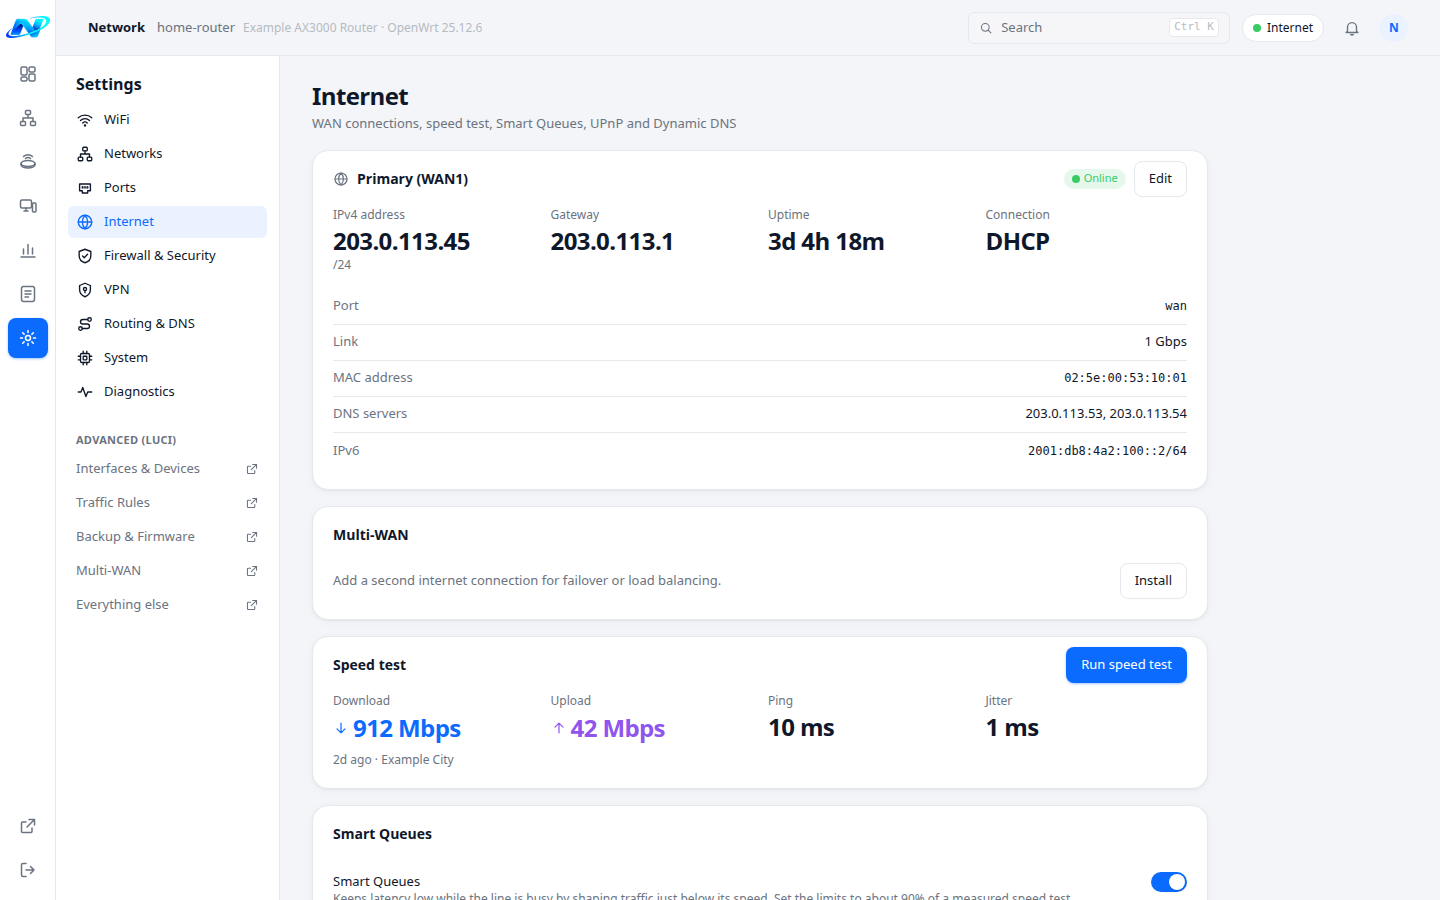
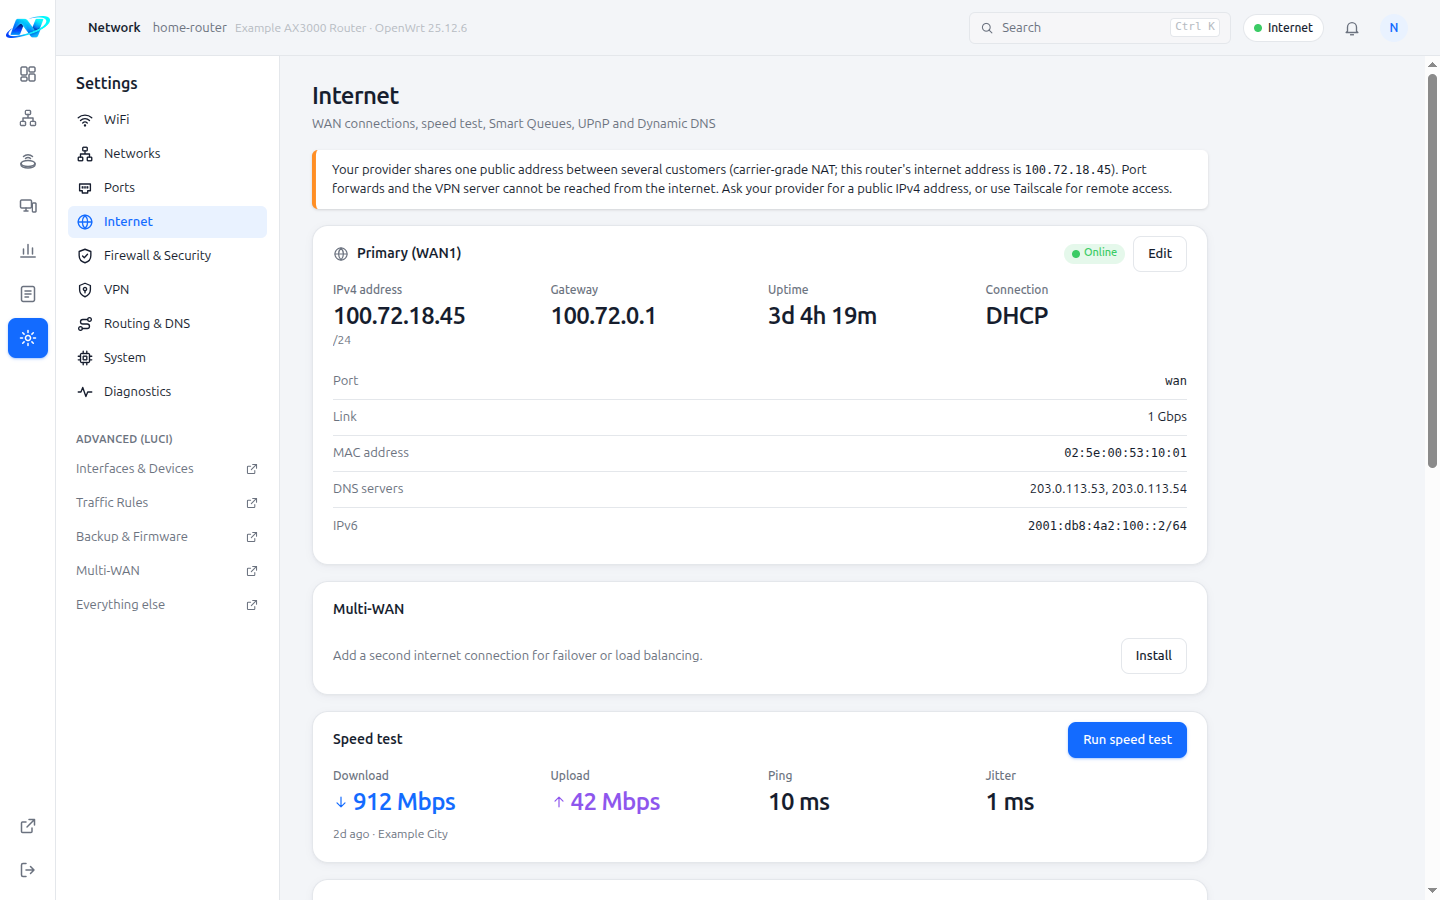
Docs: what makes netui different, and screenshots of the newer features
README: a list of what sets netui apart (safety timer, one-click access
points and mesh, add-ons from the browser, first-run setup, the connection
check and carrier-grade NAT warning, VPN both ways, firmware updates for
every device, read-only users, nothing running on the router).

New screenshots from the demo build: first-run setup on a phone (the WiFi
step and the QR code at the end), an access point's panel, the VPN page
with a connected VPN service, Diagnostics, and installing an add-on.
Internet now shows the carrier-grade NAT warning and System a firmware
build in progress. The README table, the user guide and the project page
use them; the guide gains a paragraph on the access point panel.

Project page: three more reasons (setup, plain answers, VPN both ways),
add-ons described as installed from netui, and the full list of optional
extras. The screenshot credit now says they come from the live demo, which
they do.

diff --git a/docs/index.html b/docs/index.html
@@ -169,7 +169,22 @@
       <div class="card">
         <div class="ic"><svg viewBox="0 0 24 24"><path d="M5 12.5a10 10 0 0114 0M8 15.5a5.5 5.5 0 018 0"/><circle cx="12" cy="19" r="1"/><path d="M2 9.5a14.5 14.5 0 0120 0"/></svg></div>
         <h3>Access points and mesh, made easy</h3>
-        <p>Turn any other OpenWrt router into an access point with one click. Connect it by cable or by wireless mesh, with automatic failover between the two. WiFi settings are copied to every access point.</p>
+        <p>Turn any other OpenWrt router into an access point with one click. Connect it by cable or by wireless mesh, with automatic failover between the two. WiFi settings are copied to every access point, and each one updates its firmware from netui.</p>
+      </div>
+      <div class="card">
+        <div class="ic"><svg viewBox="0 0 24 24"><path d="M10 6h10M10 12h10M10 18h10"/><path d="M3.5 6l1.5 1.5L7.5 5M3.5 12l1.5 1.5 2.5-2.5M3.5 18l1.5 1.5 2.5-2.5"/></svg></div>
+        <h3>A new router, set up in one go</h3>
+        <p>On a fresh OpenWrt, Set Up turns the WiFi on, checks the internet connection, sets the time zone and a router password, and ends with a QR code that phones scan to join.</p>
+      </div>
+      <div class="card">
+        <div class="ic"><svg viewBox="0 0 24 24"><path d="M3 12h4l2.5-6 5 12 2.5-6H21"/></svg></div>
+        <h3>Plain answers when something is wrong</h3>
+        <p>A one-click check tests the cable, the provider, the internet and name lookup, and says what to do about the first that fails. netui also warns when your provider shares one address between customers, which breaks port forwards.</p>
+      </div>
+      <div class="card">
+        <div class="ic"><svg viewBox="0 0 24 24"><path d="M5 8h14l-3.5-3.5M19 16H5l3.5 3.5"/></svg></div>
+        <h3>VPN both ways</h3>
+        <p>Reach home with a WireGuard server and a QR code per phone, or with Tailscale when there is no public address. Or send chosen devices through a VPN provider, blocked if the tunnel drops.</p>
       </div>
       <div class="card">
         <div class="ic"><svg viewBox="0 0 24 24"><rect x="3" y="4" width="18" height="13" rx="2"/><path d="M7 13l3-3 3 2 4-4M8 21h8M12 17v4"/></svg></div>
@@ -189,7 +204,7 @@
       <div class="card">
         <div class="ic"><svg viewBox="0 0 24 24"><rect x="3" y="3" width="7.5" height="7.5" rx="1.5"/><rect x="13.5" y="3" width="7.5" height="7.5" rx="1.5"/><rect x="3" y="13.5" width="7.5" height="7.5" rx="1.5"/><path d="M17.25 14v6.5M14 17.25h6.5"/></svg></div>
         <h3>Grows with you</h3>
-        <p>Ad blocking, a guest sign-in page, a VPN server, a second internet line for failover, smart queues, speed tests and firmware updates appear as soon as their package is installed.</p>
+        <p>Ad blocking, a guest sign-in page, VPN, a second internet line for failover, smart queues and more install from netui itself, after a check that there is room. Installing never switches anything on.</p>
       </div>
     </div>
   </div>
@@ -233,18 +248,23 @@
 <section id="tour">
   <div class="wrap">
     <h2>Take the tour</h2>
-    <p class="sub">Real screenshots from a gateway and an adopted access point running OpenWrt 25.12. Click any picture to enlarge it.</p>
+    <p class="sub">Screenshots from the <a href="demo/">live demo</a>, which simulates a gateway and an adopted access point running OpenWrt 25.12. Click any picture to enlarge it.</p>
     <div class="gal">
       <figure><img src="screenshots/topology.png" width="1440" height="900" loading="lazy" alt="Topology view"><figcaption><b>Topology.</b> The internet, the gateway, its ports and radios, the access points and the devices on each.</figcaption></figure>
-      <figure><img src="screenshots/devices.png" width="1440" height="900" loading="lazy" alt="Devices page"><figcaption><b>Devices.</b> The gateway and adopted access points, with how each one is connected: cable or mesh.</figcaption></figure>
+      <figure><img src="screenshots/devices.png" width="1440" height="900" loading="lazy" alt="Devices page"><figcaption><b>Devices.</b> The gateway and adopted access points, with how each one is connected (cable or mesh), and routers ready to adopt.</figcaption></figure>
+      <figure><img src="screenshots/access-point.png" width="1440" height="900" loading="lazy" alt="An access point's panel"><figcaption><b>An access point's panel.</b> Its firmware, add-ons, radios (channel and power per access point) and the devices on its WiFi.</figcaption></figure>
       <figure><img src="screenshots/wifi.png" width="1440" height="900" loading="lazy" alt="WiFi settings"><figcaption><b>WiFi.</b> Networks, radios with live utilisation and noise, wireless mesh and client steering.</figcaption></figure>
       <figure><img src="screenshots/client-connections.png" width="1440" height="900" loading="lazy" alt="Client details"><figcaption><b>Client devices.</b> Live activity, usage and open connections for every device.</figcaption></figure>
       <figure><img src="screenshots/insights.png" width="1440" height="620" loading="lazy" alt="Insights"><figcaption><b>Insights.</b> Channel utilisation, nearby networks per channel and a channel suggestion.</figcaption></figure>
       <figure><img src="screenshots/usage.png" width="1440" height="900" loading="lazy" alt="Usage history"><figcaption><b>Usage history.</b> Download and upload per device and per application, month by month.</figcaption></figure>
-      <figure><img src="screenshots/internet.png" width="1440" height="900" loading="lazy" alt="Internet settings"><figcaption><b>Internet.</b> Your connection, a second line for failover, and speed tests.</figcaption></figure>
+      <figure><img src="screenshots/internet.png" width="1440" height="900" loading="lazy" alt="Internet settings, warning about carrier-grade NAT"><figcaption><b>Internet.</b> Your connection, with a warning when the provider shares its address (carrier-grade NAT), a second line for failover, and speed tests.</figcaption></figure>
+      <figure><img src="screenshots/vpn.png" width="1440" height="900" loading="lazy" alt="VPN settings"><figcaption><b>VPN.</b> A WireGuard server and its clients, Tailscale, and a VPN service for chosen devices that blocks their internet if the tunnel drops.</figcaption></figure>
       <figure><img src="screenshots/ad-blocking.png" width="1440" height="900" loading="lazy" alt="Ad blocking"><figcaption><b>Ad blocking and content filtering</b> for every device on the network.</figcaption></figure>
-      <figure><img src="screenshots/system.png" width="1440" height="900" loading="lazy" alt="System settings"><figcaption><b>System.</b> Firmware updates, backup and restore, admins and read-only users.</figcaption></figure>
+      <figure><img src="screenshots/diagnostics.png" width="1440" height="900" loading="lazy" alt="Diagnostics"><figcaption><b>Diagnostics.</b> A one-click connection check that says what to fix, plus ping, traceroute and DNS lookup from the router.</figcaption></figure>
+      <figure><img src="screenshots/system.png" width="1440" height="900" loading="lazy" alt="System settings"><figcaption><b>System.</b> Firmware updates built with your add-ons, and backup and restore.</figcaption></figure>
+      <figure><img src="screenshots/addons.png" width="1440" height="900" loading="lazy" alt="Installing an add-on"><figcaption><b>Add-ons.</b> Optional features install from netui after a check that there is room. Admins and read-only users.</figcaption></figure>
       <figure><img src="screenshots/apply-review.png" width="1440" height="900" loading="lazy" alt="Review changes dialog"><figcaption><b>Every change is reviewed</b> and applied with a safety timer. If it cuts you off, the router undoes it.</figcaption></figure>
+      <figure><img src="screenshots/setup.png" width="1608" height="1688" loading="lazy" alt="First-run setup on a phone"><figcaption><b>First-run setup.</b> WiFi name and password, the internet, time zone and a router password, ending with a QR code to join.</figcaption></figure>
       <figure class="phone"><img src="screenshots/mobile.png" width="780" height="1688" loading="lazy" alt="netui on a phone"><figcaption><b>On a phone.</b> The same interface with a bottom tab bar, for a quick look from the sofa.</figcaption></figure>
     </div>
   </div>
@@ -254,17 +274,24 @@
   <div class="wrap two">
     <div>
       <h2>Optional extras</h2>
-      <p class="sub">netui shows these pages as soon as the matching OpenWrt package is installed. Without them, it stays out of the way.</p>
+      <p class="sub">Each one installs from netui: its card has an Install button, and System → Add-ons lists them all. Installing never switches anything on. Without them, netui stays out of the way.</p>
       <table>
         <tr><th>Feature</th><th>Package</th></tr>
         <tr><td>Ad blocking</td><td><code>adblock-fast</code></td></tr>
         <tr><td>Guest sign-in page</td><td><code>opennds</code></td></tr>
-        <tr><td>VPN server</td><td><code>luci-proto-wireguard</code></td></tr>
+        <tr><td>VPN server, VPN service</td><td><code>luci-proto-wireguard</code></td></tr>
+        <tr><td>Tailscale</td><td><code>tailscale</code></td></tr>
+        <tr><td>DNS over HTTPS</td><td><code>https-dns-proxy</code></td></tr>
         <tr><td>Second internet line</td><td><code>mwan3</code></td></tr>
         <tr><td>Smart queues</td><td><code>sqm-scripts</code></td></tr>
+        <tr><td>UPnP</td><td><code>luci-app-upnp</code></td></tr>
+        <tr><td>Dynamic DNS</td><td><code>luci-app-ddns</code></td></tr>
         <tr><td>Speed test</td><td><code>speedtestcpp</code> or <code>librespeed-cli</code></td></tr>
         <tr><td>Usage history</td><td><code>nlbwmon</code></td></tr>
+        <tr><td>Wake-on-LAN</td><td><code>etherwake</code></td></tr>
+        <tr><td>WiFi schedules</td><td><code>wifischedule</code></td></tr>
         <tr><td>Client steering</td><td><code>usteer</code></td></tr>
+        <tr><td>Wireless mesh</td><td><code>wpad-mbedtls</code> (the full WiFi package)</td></tr>
         <tr><td>Firmware updates</td><td><code>owut</code> (standard on 25.x)</td></tr>
       </table>
     </div>

diff --git a/README.md b/README.md
@@ -17,18 +17,62 @@ New to this? The **[user guide](docs/user-guide.md)** walks through
 installing netui and setting up WiFi, a guest network, ad blocking, extra
 access points and more, step by step.
 
+## What makes netui different
+
+- **You cannot lock yourself out.** Every change is shown for review, then
+  applied with a 30-second safety timer: if it cuts netui off from the
+  router, the router undoes it by itself. A change that moves the router to
+  a new address is followed there.
+- **Access points in one click.** Install a small agent on any other OpenWrt
+  router and click **Adopt**: it becomes an access point with your WiFi
+  networks, and every later WiFi change is copied to it. Each access point
+  has its own panel with its uplink, clients, radios, firmware and add-ons.
+- **Wireless mesh with failover.** One switch gives every access point an
+  encrypted mesh link to the gateway. With a cable it uses the cable and keeps
+  the mesh as a backup; unplug it and it moves to the mesh within about 20
+  seconds.
+- **Add-ons from the browser.** Optional features (ad blocking, a guest
+  sign-in page, VPN, Tailscale, usage history and more) install from their own
+  card. netui checks there is room first, and installing never switches
+  anything on.
+- **A new router set up in one go.** On a fresh OpenWrt, **Set Up** turns the
+  WiFi on, checks the internet connection, sets the time zone and a password
+  for the router, and ends with a QR code that phones scan to join.
+- **Plain answers when something is wrong.** A one-click connection check
+  tests the cable, the provider's address, the internet and name lookup in
+  turn, and says what to do about the first that fails. netui also warns when
+  the provider shares one public address between customers (carrier-grade
+  NAT) or another router sits in front, where port forwards and the VPN
+  server cannot work.
+- **VPN both ways.** A WireGuard server with a QR code for each phone; the
+  router as the client of a VPN provider, for all devices or chosen ones,
+  with a switch that blocks their internet if the tunnel drops; or Tailscale
+  for remote access without a public address.
+- **Firmware updates for the whole network.** The router and every access
+  point update from netui, with an image built with the add-ons they have
+  installed, keeping their settings.
+- **Its own limited login.** netui never signs in as root. Add other admins,
+  or read-only users who can see everything and change nothing.
+- **Light on the router.** Plain web files: no service running in the
+  background, no cloud account, under 190 KB to load. Settings are read fresh
+  from the router every time, so changes made in LuCI or over ssh show up, and
+  LuCI stays available for everything netui does not cover.
+
 ## Screenshots
 
 | | |
 |---|---|
-| ![Dashboard](docs/screenshots/dashboard.png) **Dashboard**: gateway health, internet throughput, the last speed test, ports, WiFi, top clients and recent events | ![Topology](docs/screenshots/topology.png) **Topology**: internet, gateway, ports, radios, access points and the clients on each |
-| ![Devices](docs/screenshots/devices.png) **Devices**: the gateway and adopted access points with their uplink (cable or mesh) | ![WiFi settings](docs/screenshots/wifi.png) **WiFi**: SSIDs, radios with live utilisation and noise, wireless mesh, client steering |
+| ![Dashboard](docs/screenshots/dashboard.png) **Dashboard**: gateway health, internet throughput, the last speed test, ports, WiFi, top clients and recent events | ![Review changes](docs/screenshots/apply-review.png) **Every change is reviewed** and applied with a safety timer: if it cuts netui off, the router undoes it |
+| ![Topology](docs/screenshots/topology.png) **Topology**: internet, gateway, ports, radios, access points and the clients on each | ![Devices](docs/screenshots/devices.png) **Devices**: the gateway and adopted access points with their uplink (cable or mesh), and routers ready to adopt |
+| ![An access point's panel](docs/screenshots/access-point.png) **An access point's panel**: its firmware, add-ons, radios (channel and power per access point) and WiFi clients | ![WiFi settings](docs/screenshots/wifi.png) **WiFi**: SSIDs, radios with live utilisation and noise, wireless mesh, client steering |
 | ![Client details](docs/screenshots/client-connections.png) **Client devices**: live activity, usage and open connections per client | ![Insights](docs/screenshots/insights.png) **Insights**: channel utilisation, nearby networks per channel and a channel suggestion |
-| ![Usage history](docs/screenshots/usage.png) **Usage history**: download and upload per device and per application, by month | ![Internet](docs/screenshots/internet.png) **Internet**: the WAN, a second connection for failover, speed tests |
-| ![Ad blocking](docs/screenshots/ad-blocking.png) **Ad blocking and content filtering** for every device on the network | ![System](docs/screenshots/system.png) **System**: firmware updates, backup and restore, admins and read-only users |
-| ![Review changes](docs/screenshots/apply-review.png) **Every change is reviewed** and applied with a safety timer: if it cuts netui off, the router undoes it | <img src="docs/screenshots/mobile.png" alt="On a phone" width="240"> **On a phone**: the same UI with a bottom tab bar |
+| ![Usage history](docs/screenshots/usage.png) **Usage history**: download and upload per device and per application, by month | ![Internet](docs/screenshots/internet.png) **Internet**: the WAN with a warning when the provider shares its address (carrier-grade NAT), a second connection for failover, speed tests |
+| ![VPN](docs/screenshots/vpn.png) **VPN**: a WireGuard server and its clients, Tailscale, and a VPN service for chosen devices that blocks their internet if the tunnel drops | ![Ad blocking](docs/screenshots/ad-blocking.png) **Ad blocking and content filtering** for every device on the network |
+| ![Diagnostics](docs/screenshots/diagnostics.png) **Diagnostics**: a one-click connection check that says what to fix, plus ping, traceroute and DNS lookup from the router | ![System](docs/screenshots/system.png) **System**: firmware updates built with your add-ons, backup and restore |
+| ![Add-ons](docs/screenshots/addons.png) **Add-ons**: optional features installed from netui after a check that there is room; admins and read-only users | <img src="docs/screenshots/mobile.png" alt="On a phone" height="300"> <img src="docs/screenshots/setup.png" alt="First-run setup on a phone" height="300"> **On a phone**: the same UI with a bottom tab bar. On a new router, **Set Up** turns the WiFi on and ends with a QR code to join it |
 
-Captured on a Dynalink DL-WRX36 running OpenWrt 25.12.6, with a Xiaomi AX3600 as an adopted access point.
+Captured from the [live demo](https://msjonker.github.io/netui/demo/), which
+simulates a gateway and an adopted access point running OpenWrt 25.12.
 
 ## Install on a router
 

diff --git a/docs/user-guide.md b/docs/user-guide.md
@@ -138,6 +138,10 @@ the router itself a password (for `ssh` and LuCI; netui keeps its own
 sign-in). You see every change before it is made, and the last step shows a
 QR code that phones can scan to join the new WiFi.
 
+<img src="screenshots/setup.png" alt="Setting up a new router: the WiFi step, and the QR code at the end" width="520">
+
+The first step is the WiFi name and password; the last shows the QR code.
+
 Your initial in the top right corner opens a small menu: who you are signed in
 as, the **theme** (*System* follows your computer's light or dark setting, or
 pick *Light* or *Dark*; the choice is remembered in this browser), a link to
@@ -166,7 +170,7 @@ try again more carefully, or ask for help.
 
 **Settings → Internet** shows your connection to the internet (the **WAN**).
 
-![The Internet page](screenshots/internet.png)
+![The Internet page, warning that the provider shares its address](screenshots/internet.png)
 
 - **Most connections need no setup.** If your router is plugged into a modem
   or into your internet provider's box, the connection type is usually
@@ -205,6 +209,8 @@ The router downloads it (it needs to be online) and the feature appears when
 it is done, usually within a minute. **Settings → System → Add-ons** lists
 every add-on, installed or not, and can remove one again; its settings stay
 on the router. Nothing switches on by itself just because it was installed.
+
+![Installing an add-on: netui shows its size and the free space first](screenshots/addons.png)
 
 ## 6. WiFi
 
@@ -331,6 +337,14 @@ from your main router, so you set everything up in one place.
 
 ![Devices](screenshots/devices.png)
 
+From then on, every WiFi change you make on the main router is copied to the
+access point. Click it in **Devices** to open its panel: how it is connected,
+the devices on its WiFi, its radios, firmware updates and add-ons. Under
+**Radios**, **Edit** sets the channel, width and power for that access point
+alone, so two access points near each other do not have to share a channel.
+
+![An access point's panel](screenshots/access-point.png)
+
 **Wireless mesh.** Once adopted with a cable, an access point can also
 connect to the main router over WiFi. Turn on **Settings → WiFi → Wireless
 mesh**. Then you can move the access point somewhere without a cable: it
@@ -357,6 +371,8 @@ reach a home server, or to browse safely on hotel WiFi.
    configuration file and import it in the WireGuard app.
 
 (An add-on: **WireGuard VPN**. Restart the router once after installing it.)
+
+![The VPN page: the server and its clients, Tailscale, and a VPN service](screenshots/vpn.png)
 
 **Tailscale** is the easier way in when the VPN server cannot work: if your
 provider uses carrier-grade NAT (netui warns you), or you cannot or do not
@@ -423,7 +439,7 @@ one file. Do this before big changes, and keep the file somewhere safe: it
 contains your WiFi passwords. **Restore…** puts a backup back; the router
 restarts with those settings.
 
-![System settings](screenshots/system.png)
+![System settings, with a firmware update being built](screenshots/system.png)
 
 ## 14. Other people who manage the network
 
@@ -467,6 +483,8 @@ your modem, check the cable between modem and router, then look at
 to* or *look up* any name or address from the router. If the router is online
 but one device is not, open that device in **Client Devices** and check it is
 not blocked.
+
+![The connection check and a traceroute](screenshots/diagnostics.png)
 
 **A website does not work since I turned on ad blocking.** Add the site's
 name under **Never block** (Firewall & Security → Ad Blocking & Filtering).
